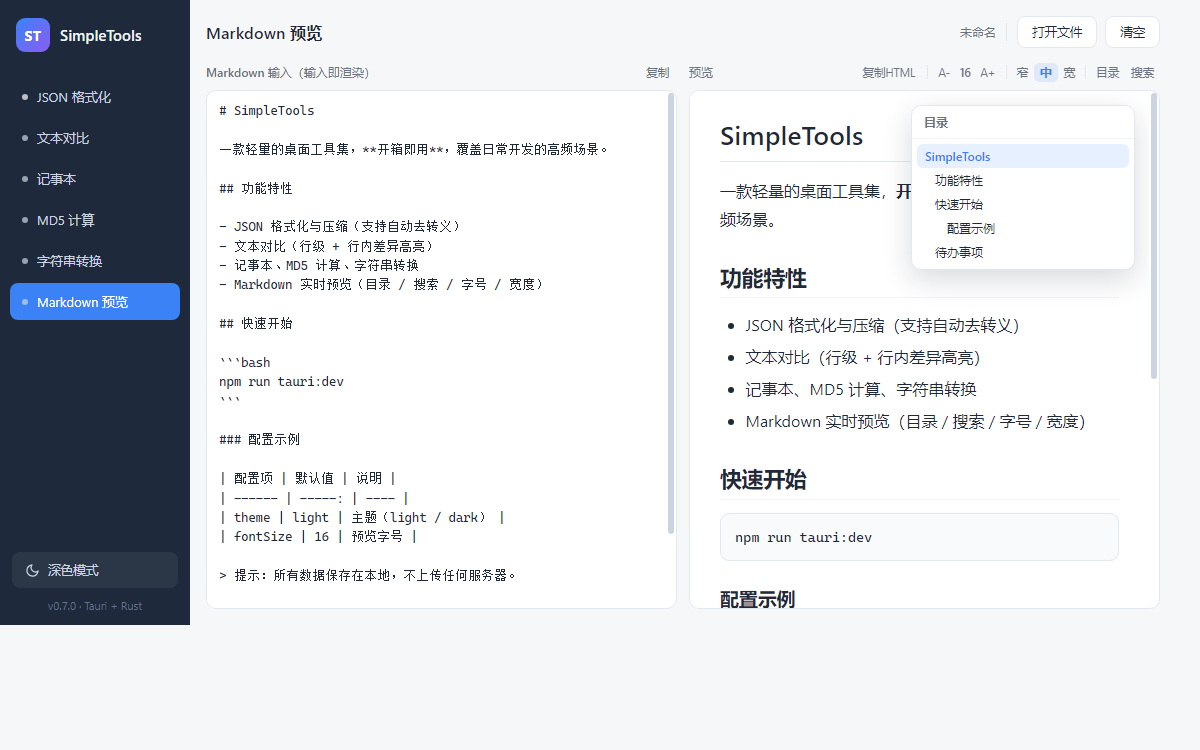
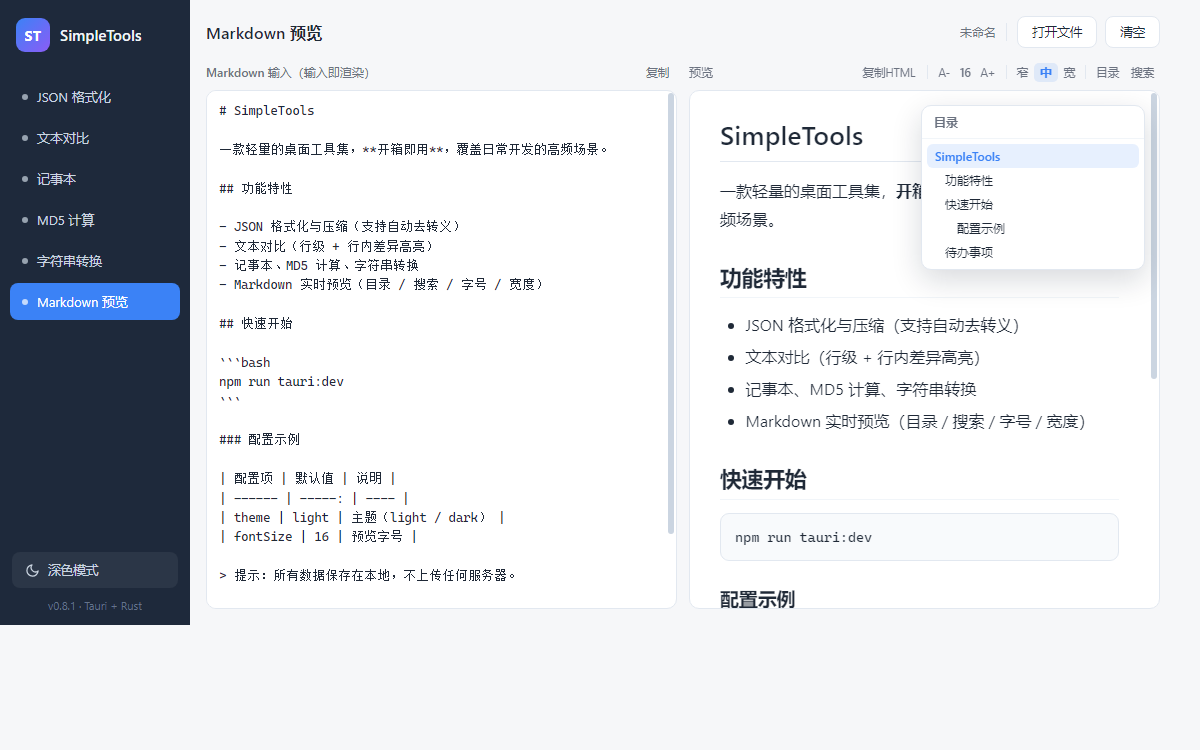
v0.8.1: 修复 Markdown 预览目录浮层与阅读进度条随内容滚动移动的问题（浮层改为固定在预览区，不随滚动位移）

diff --git a/src/index.html b/src/index.html
@@ -62,7 +62,7 @@
         </svg>
         <span id="theme-label">深色模式</span>
       </button>
-      <div class="version">v0.8.0 · Tauri + Rust</div>
+      <div class="version">v0.8.1 · Tauri + Rust</div>
     </div>
   </aside>
 
@@ -314,10 +314,12 @@
               <button class="md-tool-btn" id="md-search-btn" title="全文搜索（忽略大小写）">搜索</button>
             </div>
           </div>
-          <div class="md-reader-wrap" id="md-reader-wrap">
+          <div class="md-reader-box">
             <div class="md-progress"><div class="md-progress-bar" id="md-progress-bar"></div></div>
-            <div class="md-empty" id="md-empty">输入 Markdown 或打开 .md 文件，实时渲染预览</div>
-            <article id="md-reader" class="md-body hidden"></article>
+            <div class="md-reader-wrap" id="md-reader-wrap">
+              <div class="md-empty" id="md-empty">输入 Markdown 或打开 .md 文件，实时渲染预览</div>
+              <article id="md-reader" class="md-body hidden"></article>
+            </div>
             <aside class="md-toc hidden" id="md-toc">
               <div class="md-toc-head">目录</div>
               <div class="md-toc-list" id="md-toc-list"></div>

diff --git a/src/styles.css b/src/styles.css
@@ -1548,15 +1548,23 @@ textarea[readonly] {
   box-shadow: 0 0 0 3px var(--primary-soft);
 }
 
-/* 阅读区容器 */
-.md-reader-wrap {
+/* 阅读区容器（外层定位 + 内层滚动：进度条 / 目录浮层固定，不随内容滚动移动） */
+.md-reader-box {
   position: relative;
   flex: 1;
   min-height: 0;
-  overflow: auto;
+  display: flex;
+  flex-direction: column;
+  overflow: hidden;
   border: 1px solid var(--border);
   border-radius: 10px;
   background: var(--panel-bg);
+}
+
+.md-reader-wrap {
+  flex: 1;
+  min-height: 0;
+  overflow: auto;
 }
 
 .md-progress {

diff --git a/README.md b/README.md
@@ -75,7 +75,7 @@ npm run build
 
 构建产物：
 
-- 安装包：`src-tauri/target/release/bundle/nsis/SimpleTools_0.8.0_x64-setup.exe`
+- 安装包：`src-tauri/target/release/bundle/nsis/SimpleTools_0.8.1_x64-setup.exe`
 - 免安装单文件：`src-tauri/target/release/SimpleTools.exe`
 
 > 首次构建约需几分钟（Rust 编译）；前端为静态资源，修改 `src/` 后需重新执行 `npm run build` 才生效。
@@ -138,6 +138,10 @@ SimpleTools/
 ```
 
 ## 更新日志
+
+### v0.8.1（2026-10-11）
+
+- 修复 Markdown 预览的目录浮层与阅读进度条随内容滚动移动的问题（现固定在预览区，滚动时保持不动）
 
 ### v0.8.0（2026-10-11）
 
